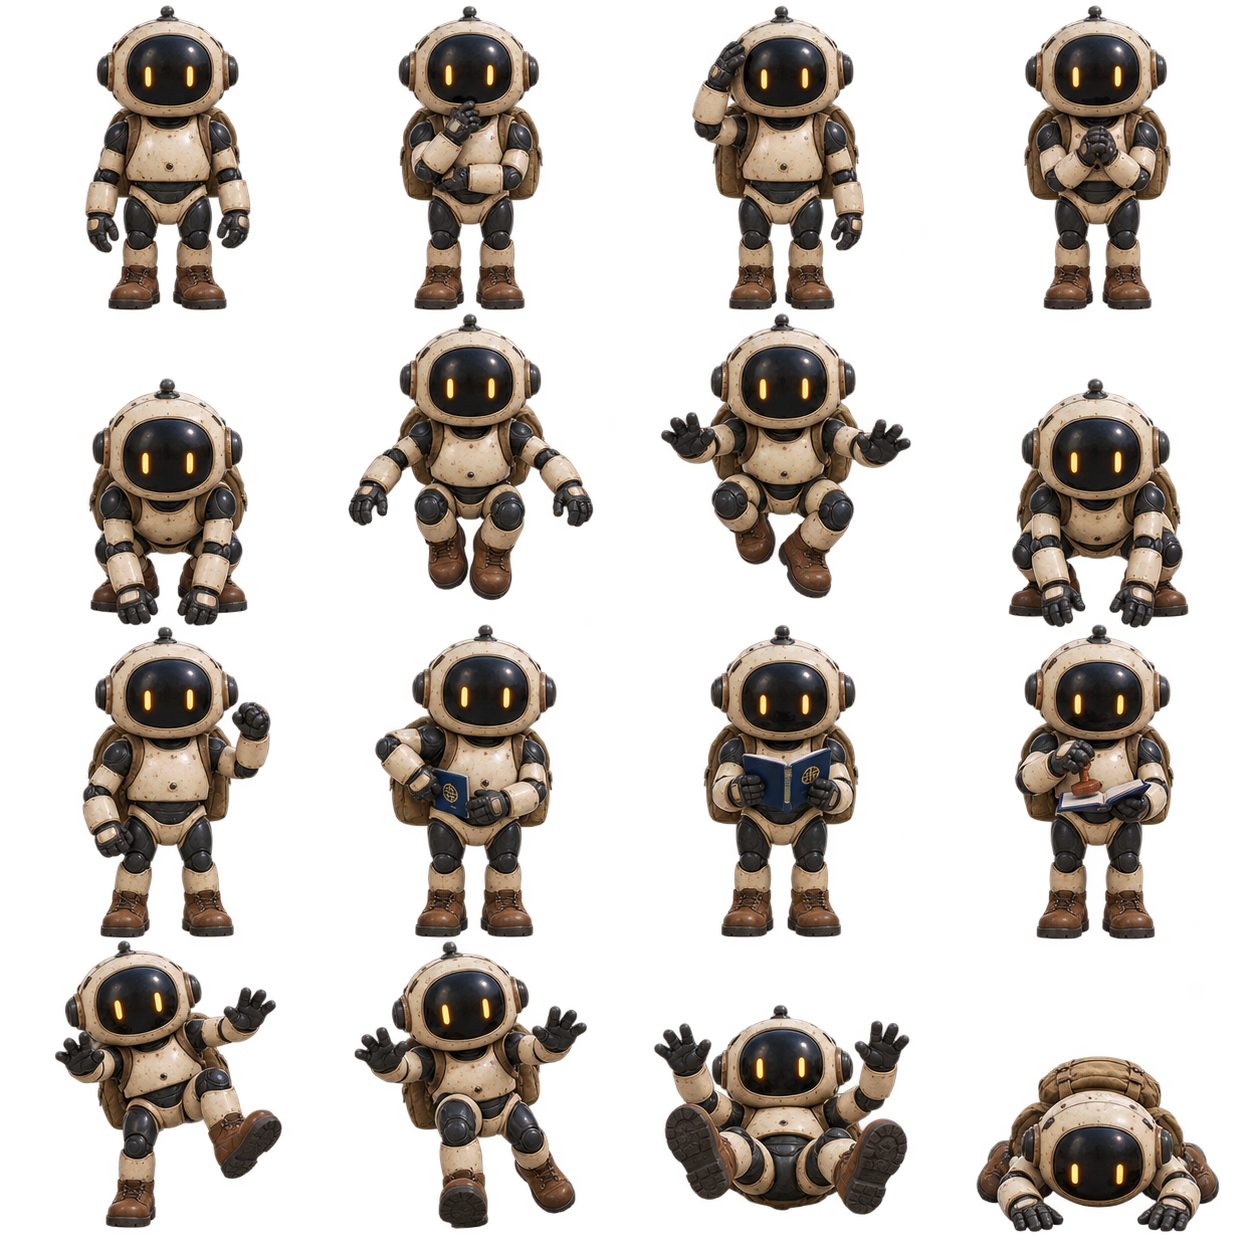
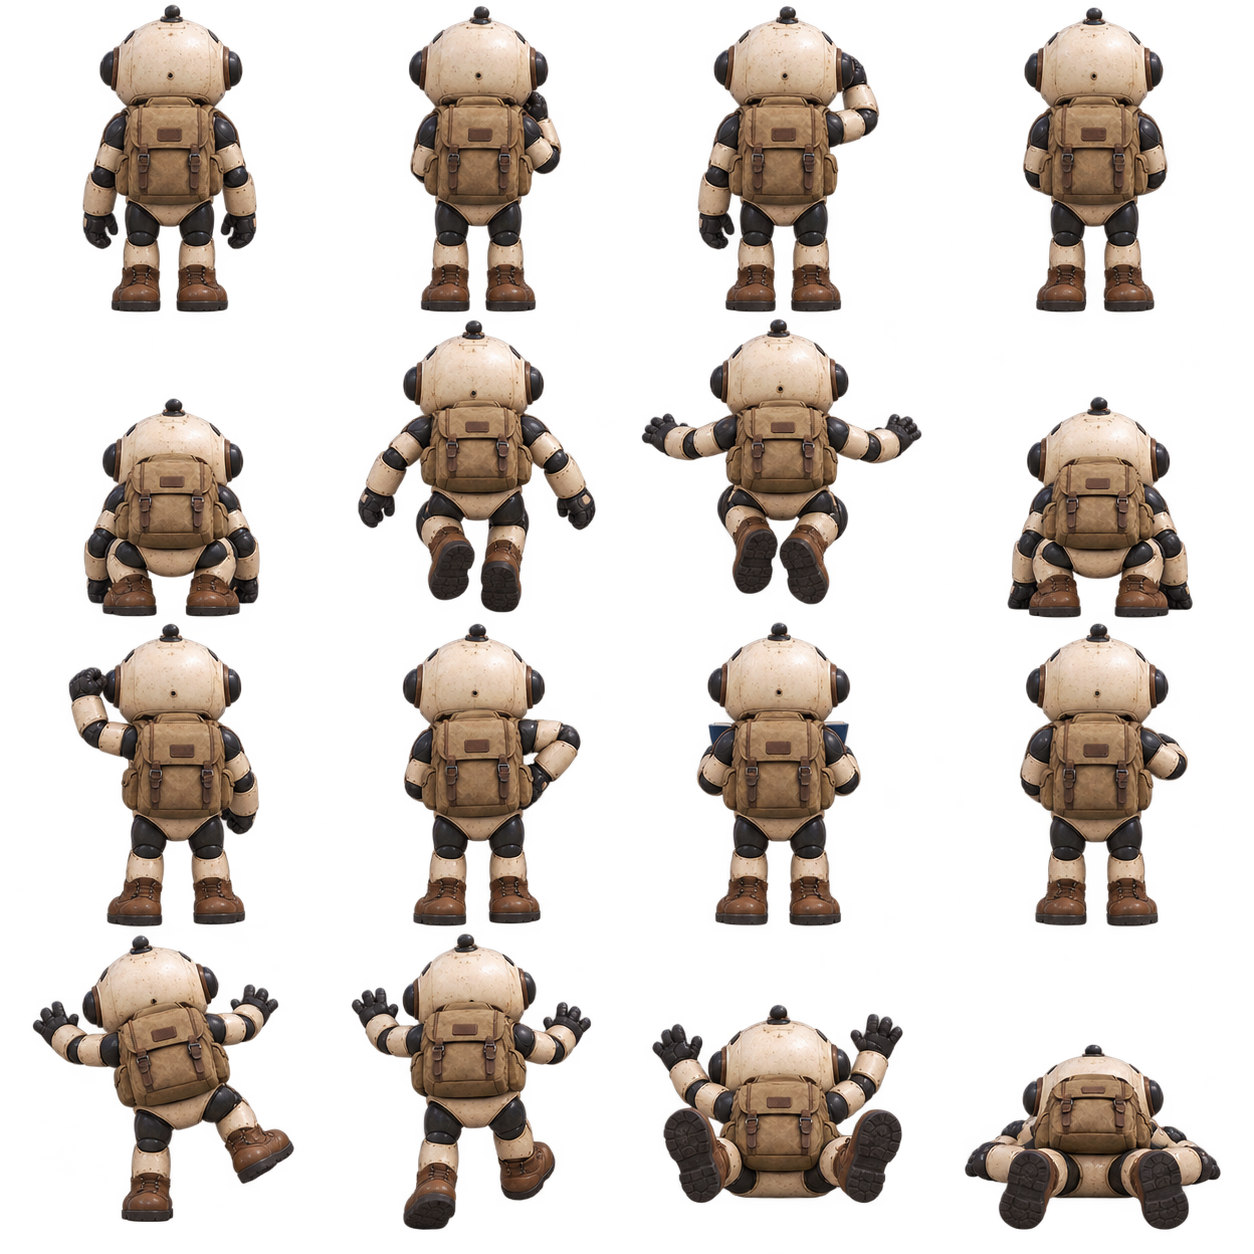
Face jumping-game characters toward the path

diff --git a/docs/realistic-graphics.md b/docs/realistic-graphics.md
@@ -9,8 +9,8 @@ The user requested realistic graphics throughout the game. This pass replaces th
 | `assets/realistic/details/scenery-00.png` through `scenery-68.png` | 69 four-cell atlases: 276 distinct destination scenes, approximately 512×768 per scene |
 | `assets/realistic/backdrops/{FR,TR,US,JP,EG,AF}.png` | Six dedicated full-resolution portrait scenes |
 | `assets/realistic/explorer.png` | Adult arcade explorer, planted side-profile idle/walk/shoot/death poses |
-| `assets/realistic/memory-explorer.png` | Front-facing adult memory-game thinking, jump, celebration, passport and fall poses |
-| `assets/realistic/robot-explorer.png` | Front-facing Kids explorer with physically textured metal, rubber, canvas and matching memory poses |
+| `assets/realistic/memory-explorer.png` | Rear-view, path-facing adult memory-game thinking, jump, celebration, passport and fall poses |
+| `assets/realistic/robot-explorer.png` | Rear-view, path-facing Kids explorer with physically textured metal, rubber, canvas and matching memory poses |
 | `assets/realistic/objects.png` | Three latex balloon colors, brass boss, anonymous sealed capsule and three weapon/projectile sprites |
 | `assets/realistic/materials.png` | Limestone, sandstone, frosted ice and oak surfaces |
 | `assets/realistic/medals.png` | Bronze, silver and gold compass medallions |
@@ -52,10 +52,10 @@ Selected previews: [arcade play](../artifacts/realistic-gameplay.png), [bounce b
 
 ## Jumping-game facing correction
 
-The user requested the jumping-game character face forward rather than sideways. Both memory-game sheets now face the viewer throughout standing, jumping, landing, celebration, passport and falling poses. The balloon-game sheet remains side-facing. The built-in image generator edited the two PNGs in place; [the submitted prompts](jumping-character-prompts.json) record the original reference commit and edits.
+The jumping-game character faces toward the path, away from the camera. Both the human and Kids robot show their backs and backpacks throughout standing, jumping, landing, celebration, passport and falling poses. The built-in image generator edited the two PNGs in place; [the submitted prompts](jumping-character-prompts.json) record the reference commit and rear-view edits. Balloon Arcade retains its separate side-facing sprites.
 
-`resources/jumping-explorer.json` measures the 32 complete silhouettes. `Traveler.align_portrait()` selects each measured pose and places its boots at the local ground level, preserving the existing frame numbers and actual game jump motion. This prevents clipping and neighboring-frame fragments where the generated standing poses cross a nominal grid boundary. Alpha analysis wrote coordinate data without modifying any PNG pixels. The data is explicitly included in export.
+`resources/jumping-explorer.json` measures the 32 complete silhouettes. `Traveler.align_portrait()` selects each measured pose and places its boots at the local ground level, preserving the existing frame numbers and actual game jump motion. This prevents clipping and neighboring-frame fragments where generated poses cross a nominal grid boundary. Alpha analysis wrote coordinate data without modifying any PNG pixels. The data is explicitly included in export.
 
-Current preview: [front-facing mid-jump](../artifacts/realistic-memory-front-jump.png). The previous Xcode app build predates this orientation correction.
+Current preview: [jumping toward the path](../artifacts/realistic-memory-path-jump.png). The previous Xcode app build predates this orientation correction.
 
-Facing-correction verification passed 53 animation/timer checks both headlessly and rendered, 208 polish checks, actual standing/mid-jump/Kids/Infinite captures, and 582 standalone checks of `/private/tmp/passport-front-facing.pck`. No balloon-game source or sprite was changed.
+Verification passed 53 animation/timer checks both headlessly and rendered, 208 polish checks, standing/mid-jump/Kids/Infinite captures, and 582 standalone artwork/startup checks of `/private/tmp/passport-path-facing.pck`.

diff --git a/HANDOFF.md b/HANDOFF.md
@@ -1,8 +1,8 @@
 # Passport Run — agent handoff (2026-10-03)
 
-## Latest correction: jumping characters face forward
+## Latest correction: jumping characters face toward the path
 
-The jumping/memory game uses front-facing human and Kids robot sheets. Balloon Arcade keeps its separate side-facing explorer. `Traveler.align_portrait()` uses measured full-pose bounds from `resources/jumping-explorer.json` to avoid clipping generated frames and align boots. Existing pose indices and jump/scoring rules remain. The bounds JSON is explicitly included in iPhone export. Built-in edit prompts are in `docs/jumping-character-prompts.json`; preview is `artifacts/realistic-memory-front-jump.png`. Headless/rendered animation checks passed 53 each, polish passed 208, and the new `/private/tmp/passport-front-facing.pck` passed 582 exported-artwork/startup checks. Previous native Xcode builds predate this correction.
+The jumping/memory game uses rear-view human and Kids robot sheets: backs toward the camera, faces toward the path. This supersedes the earlier incorrect camera-facing interpretation. Balloon Arcade keeps its separate side-facing explorer. `Traveler.align_portrait()` uses refreshed measured full-pose bounds from `resources/jumping-explorer.json` to avoid clipping generated frames and align boots. Existing pose indices and jump/scoring rules remain. The bounds JSON is included in iPhone export. Built-in edit prompts are in `docs/jumping-character-prompts.json`; preview is `artifacts/realistic-memory-path-jump.png`. `tools/capture_realistic.gd` now captures a real safe-tile jump as well as standing, Kids and Infinite. Previous native Xcode builds predate this correction. Verification passed 53 animation/timer checks both headlessly and rendered, 208 polish checks, standing/mid-jump/Kids/Infinite captures, and 582 standalone artwork/startup checks of `/private/tmp/passport-path-facing.pck`.
 
 ## Current continuation: mastery and photorealistic graphics
 

diff --git a/README.md b/README.md
@@ -121,4 +121,4 @@ Balloon bosses rotate between warned sweep charges, high bounces and summoner wa
 
 **BALLOON DAILY GOALS** tracks 30 pops, one defeated boss and one destination cleared without collecting drops; goals reset at UTC midnight. **MYSTERY-DROP JOURNAL** reveals an effect only after its drop is collected during a tour. **DESTINATION MASTERY** shows medals for stamped places. Practice remains separate from these saved rewards. Pause or Settings can put FIRE on the left and enlarge touch targets from 72 to 88 pixels; preferences persist.
 
-The graphics pass supplies separate photorealistic scenery for all 282 destinations, realistic side-profile arcade and front-facing jumping-game explorer animation, latex balloons, armored brass bosses, sealed mystery capsules, weapon sprites, metal medals, natural path materials and new menu/Infinite scenery. The character remains planted and side-facing during arcade walking and turns. Next-stop scenery still stays hidden until the current destination is cleared. Assets are generated imagery, and the game remains a 2D/3D hybrid. See [asset inventory, exact prompts and verification](docs/realistic-graphics.md). Physical iPhone visual/performance acceptance remains pending.
+The graphics pass supplies separate photorealistic scenery for all 282 destinations, realistic side-profile arcade and rear-view jumping-game explorer animation facing toward the path, latex balloons, armored brass bosses, sealed mystery capsules, weapon sprites, metal medals, natural path materials and new menu/Infinite scenery. The character remains planted and side-facing during arcade walking and turns. Next-stop scenery still stays hidden until the current destination is cleared. Assets are generated imagery, and the game remains a 2D/3D hybrid. See [asset inventory, exact prompts and verification](docs/realistic-graphics.md). Physical iPhone visual/performance acceptance remains pending.
